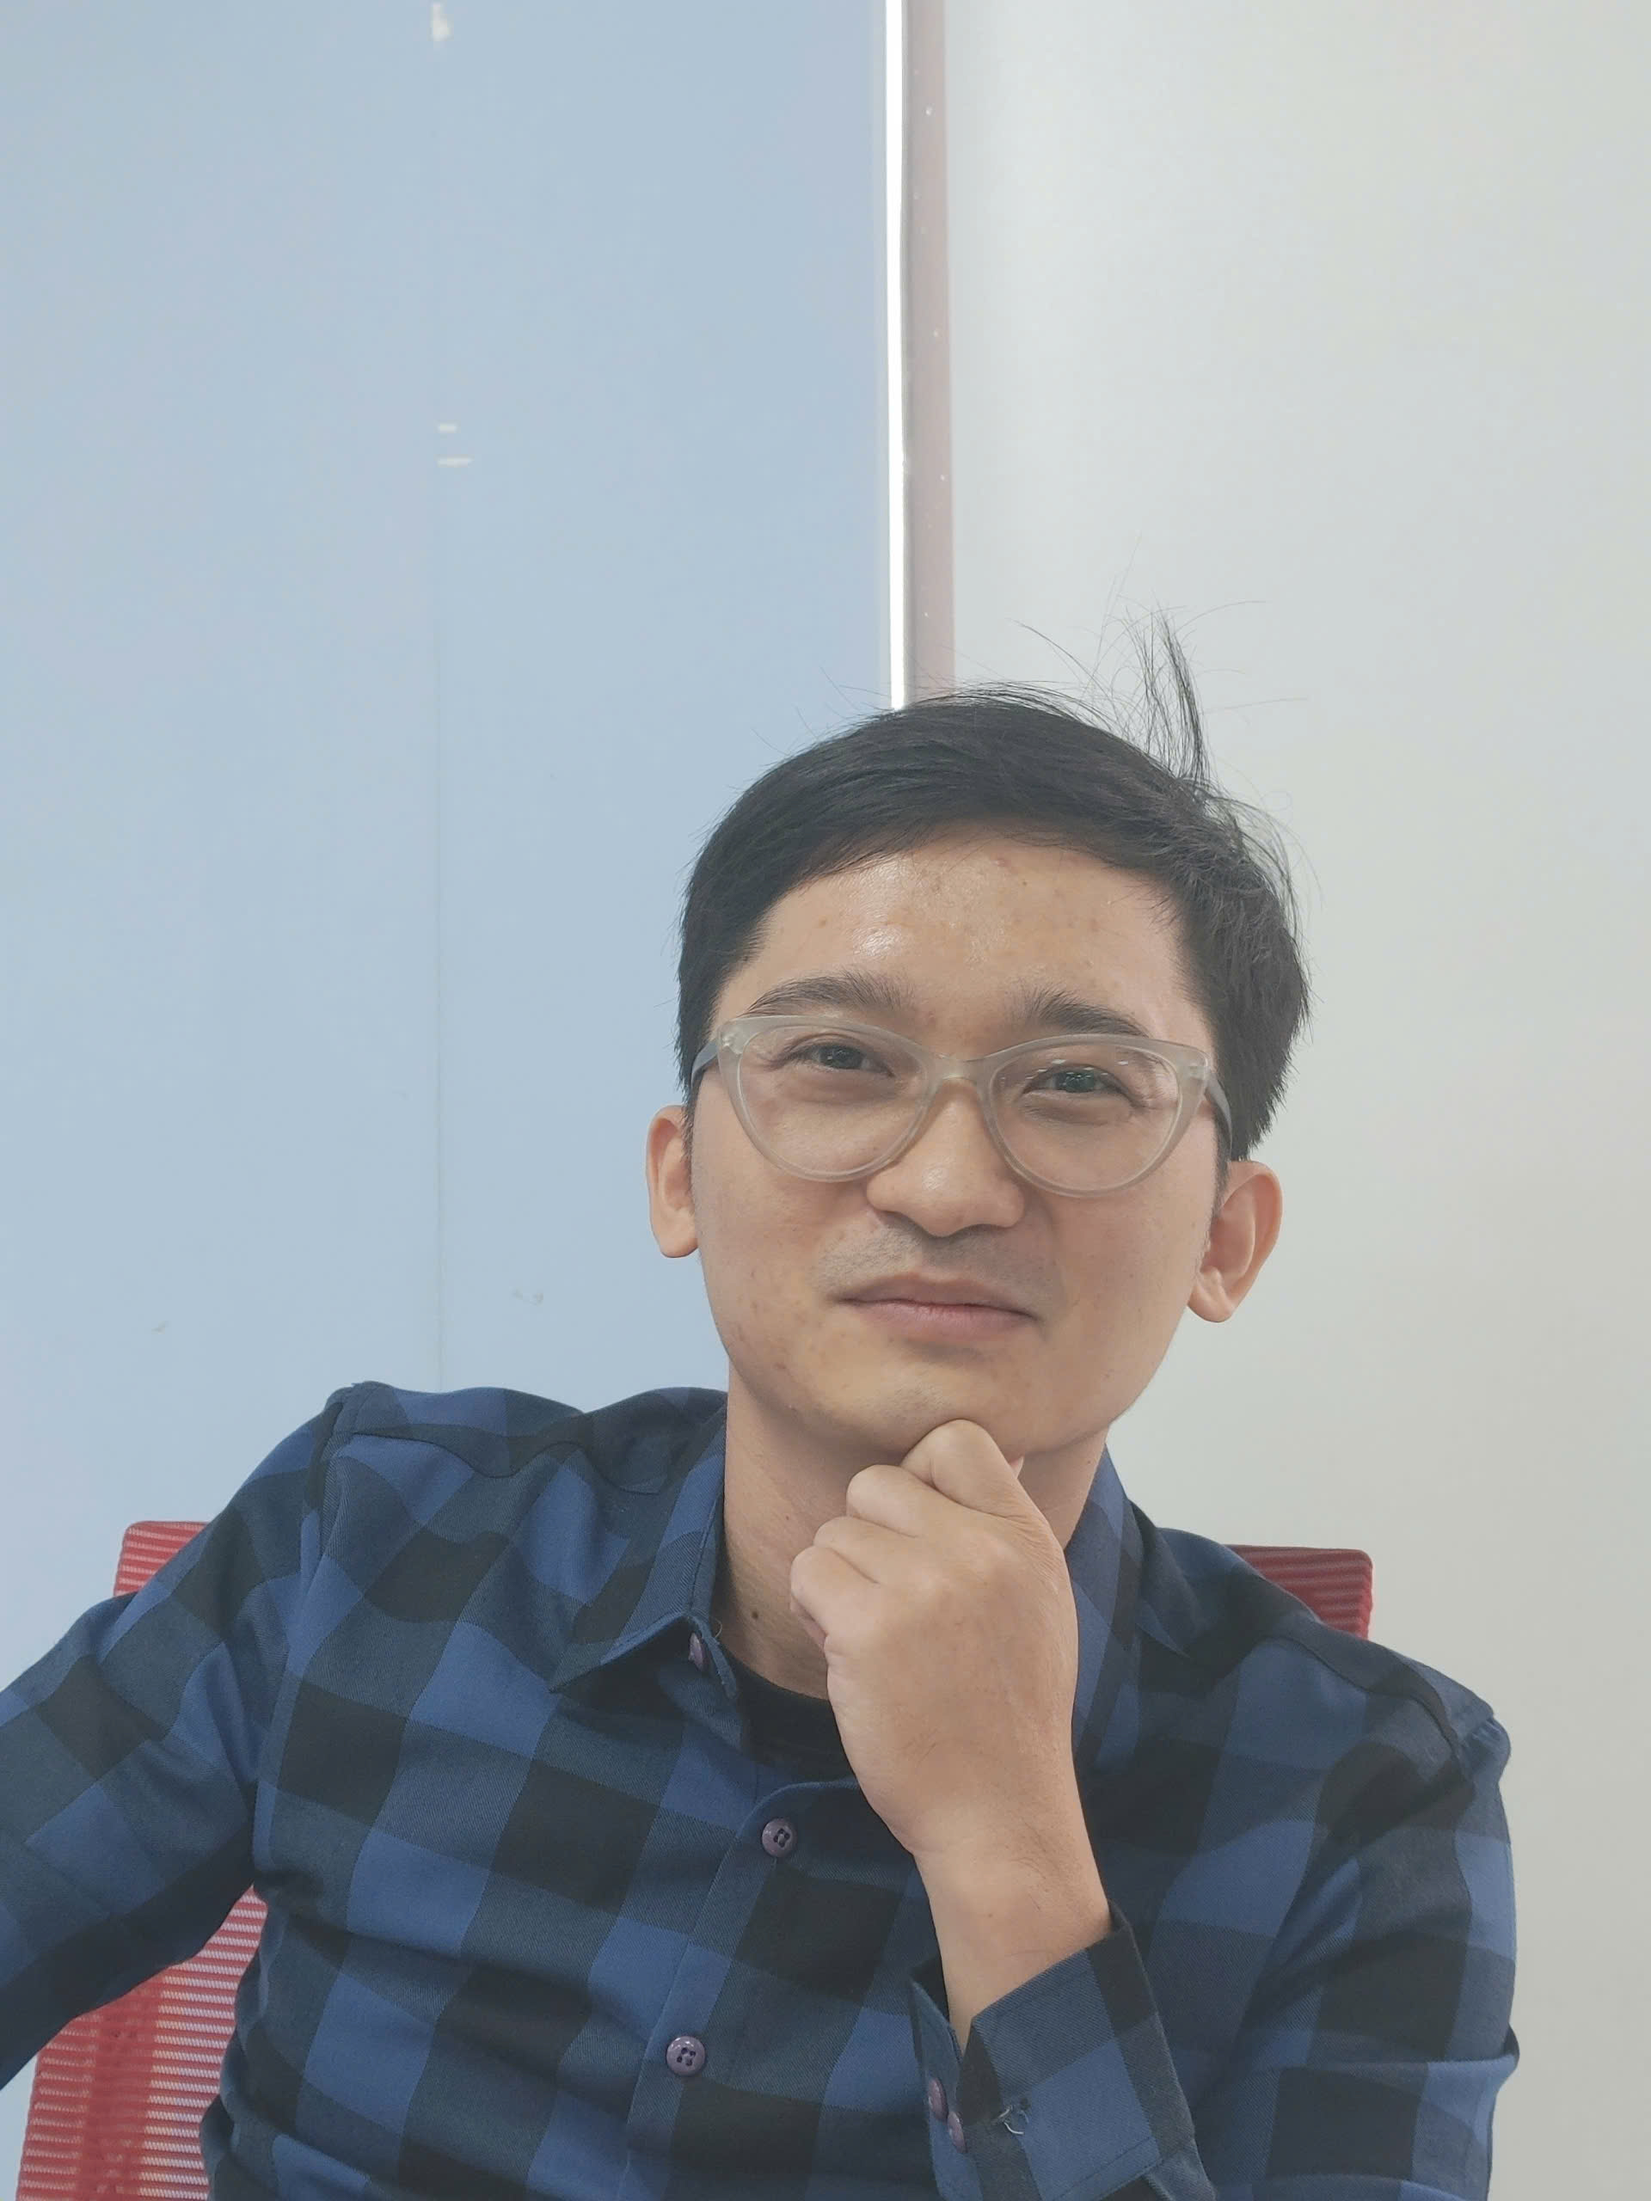
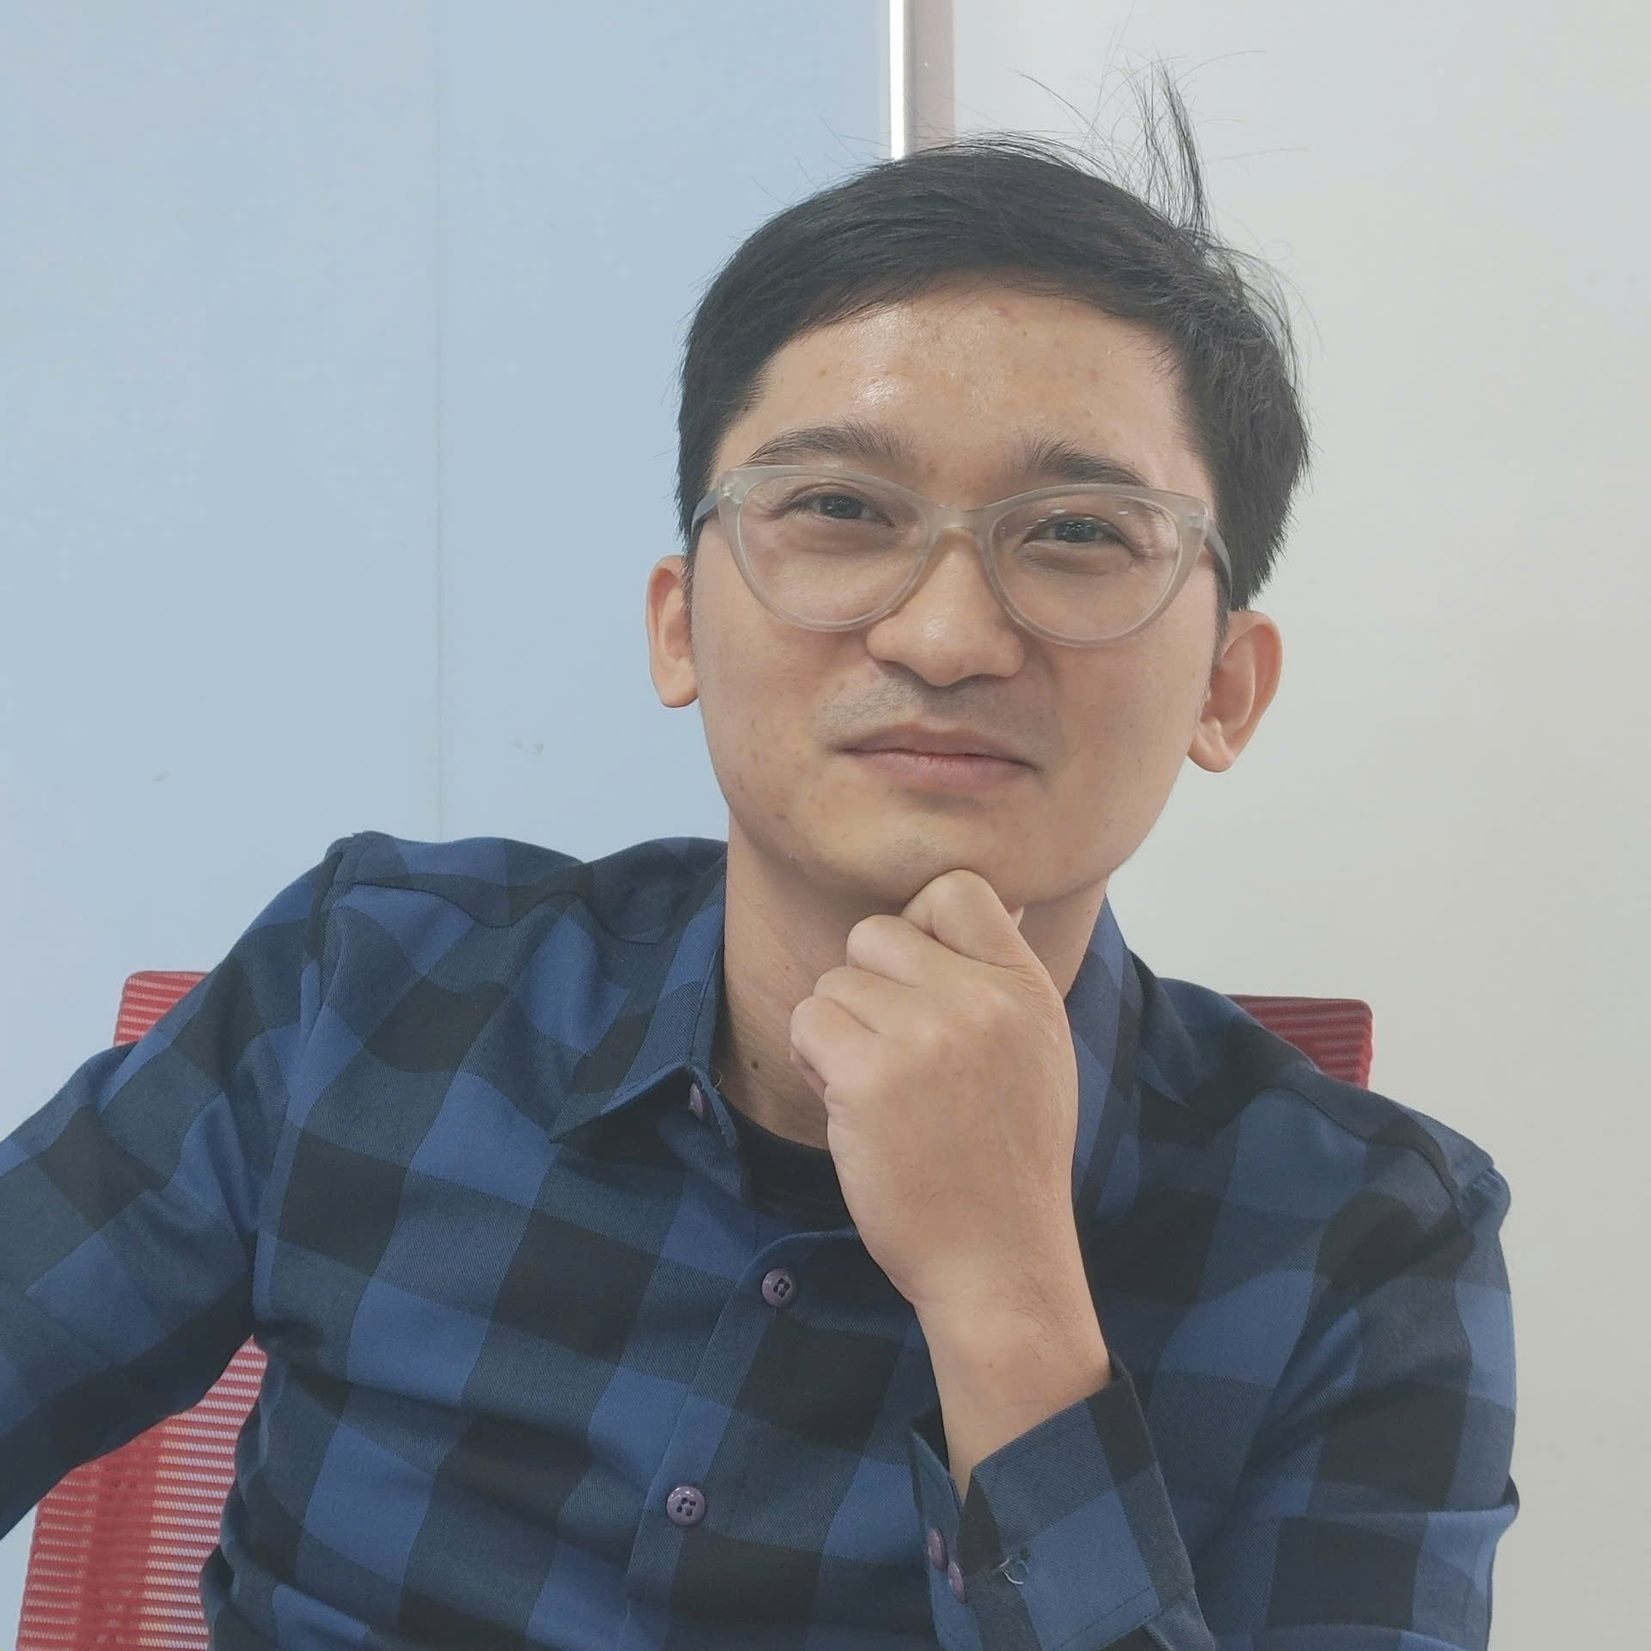
ok

diff --git a/styles/style-about.css b/styles/style-about.css
@@ -7,7 +7,7 @@ Description: about.html
 
 /* set the background color of the body to gold color and use flex box */
 body {
-    color: #FFDD03;
+    color: #e3e3e3;
     flex-direction: column;
     justify-content: flex-start;
     align-items: center;
@@ -83,6 +83,7 @@ img {
     width: 7vw;
     border-radius: 50%;
     color: #daaa52;
+    font-weight: 400;
     aspect-ratio: 1 / 1;
 }
 
@@ -101,19 +102,19 @@ img {
 }
 
 .container #box-2:hover ~ .slider .slide{
-    transform: translateY(-100%);
+    transform: translateY(-105%);
 }
 
 .container #box-3:hover ~ .slider .slide{
-    transform: translateY(-200%);
+    transform: translateY(-207%);
 }
 
 .container #box-4:hover ~ .slider .slide{
-    transform: translateY(-300%);
+    transform: translateY(-310%);
 }
 
 .container #box-5:hover ~ .slider .slide{
-    transform: translateY(-400%);
+    transform: translateY(-415%);
 }
 
 .slider{

diff --git a/about.html b/about.html
@@ -27,7 +27,7 @@
     <div class="box" id="box-2">An Thịnh</div>
     <div class="box" id="box-3">Quốc Khánh</div>
     <div class="box" id="box-4">Minh Huy</div>
-    <div class="box" id="box-5">Our Tutor</div>
+    <div class="box" id="box-5">Tutor</div>
 
       <dl class="slider">
         <div class="slide">
@@ -61,9 +61,9 @@
         <div class="slide">
           
           <dt class="Tutor">Tristan</dt>
-          <dd class="Tutor">...</dd>
-          <dd class="Tutor">...</dd>
-          <figure><img src="assets/gr_img/3725ee46ec31536f0a201.jpg" alt="Tristan"></figure>
+          <dd class="Tutor">Lecturer</dd>
+          <dd class="Tutor">Guide us through the website.</dd>
+          <figure><img src="assets/img/c02f2e6b-dde6-4e93-8808-a4b0af77e2cf.jpg" alt="Tristan"></figure>
         </div>
       </dl>
   </div>
